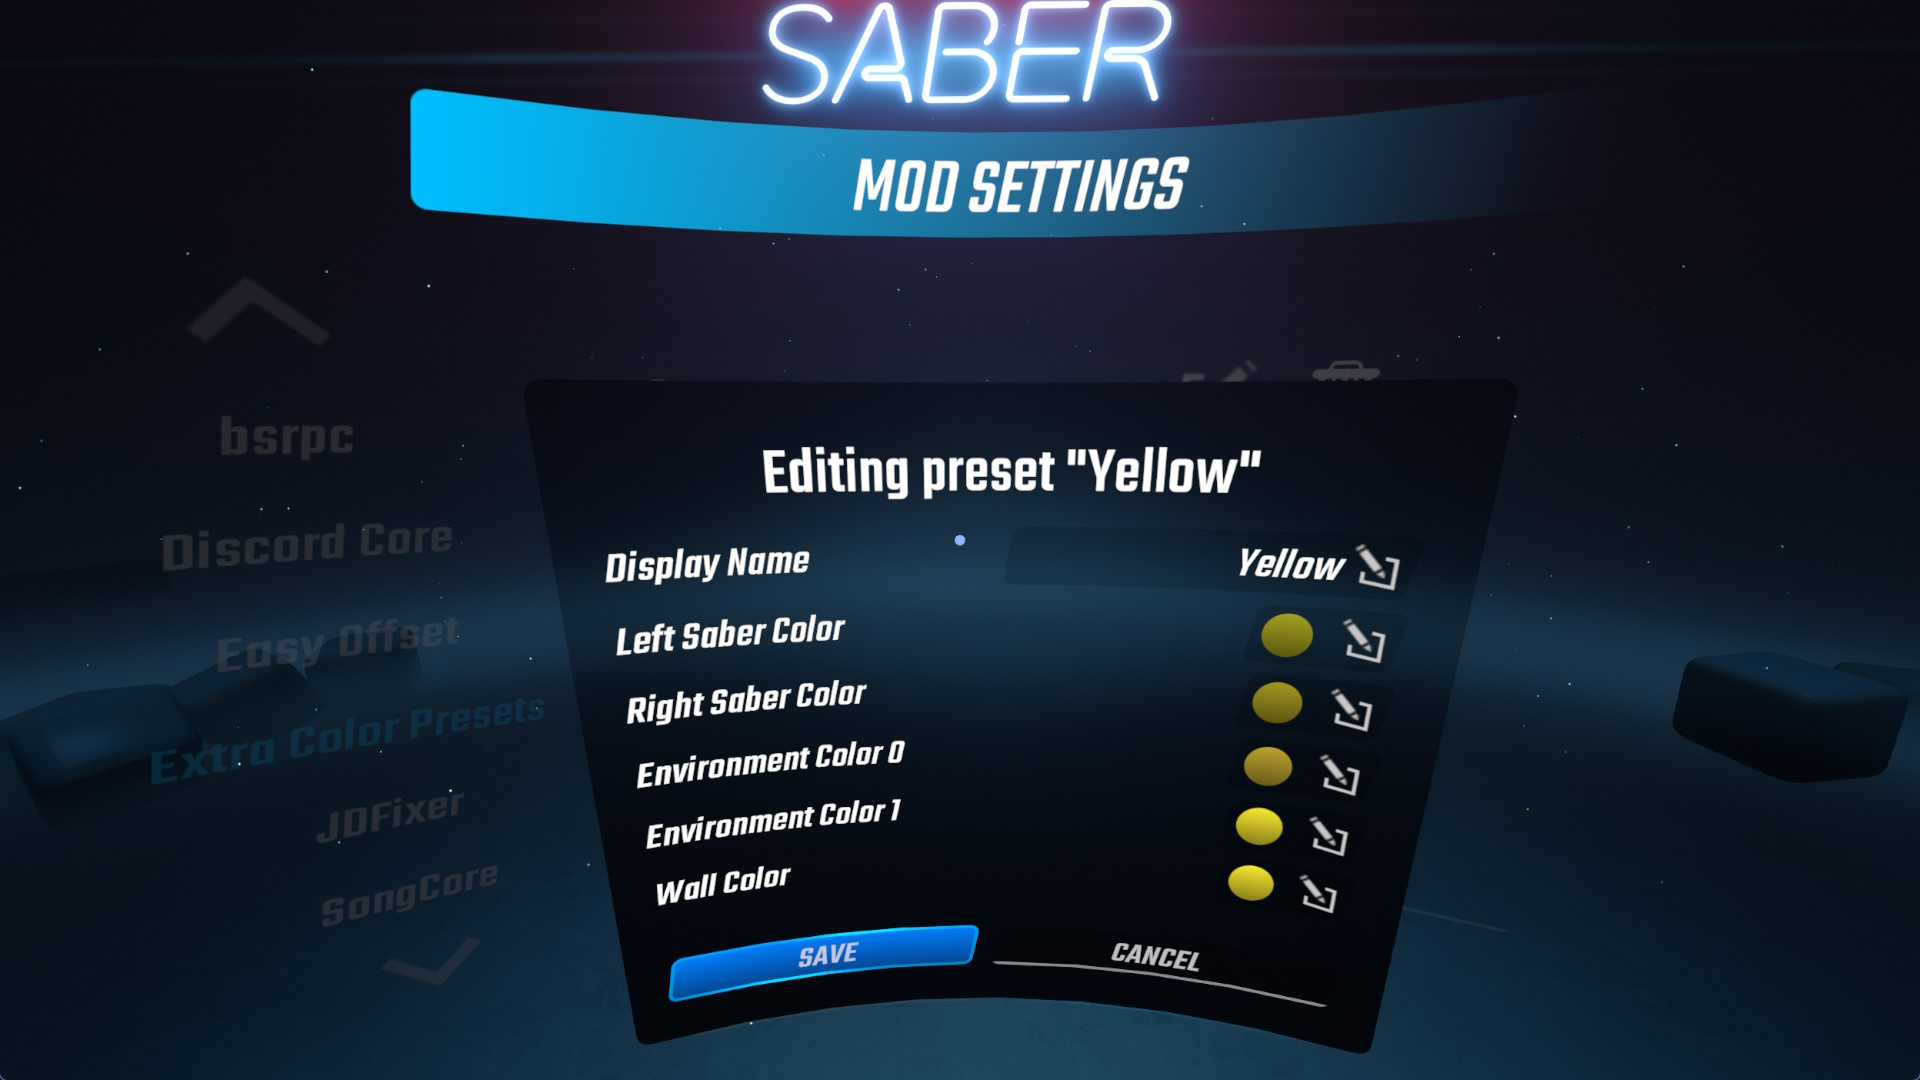
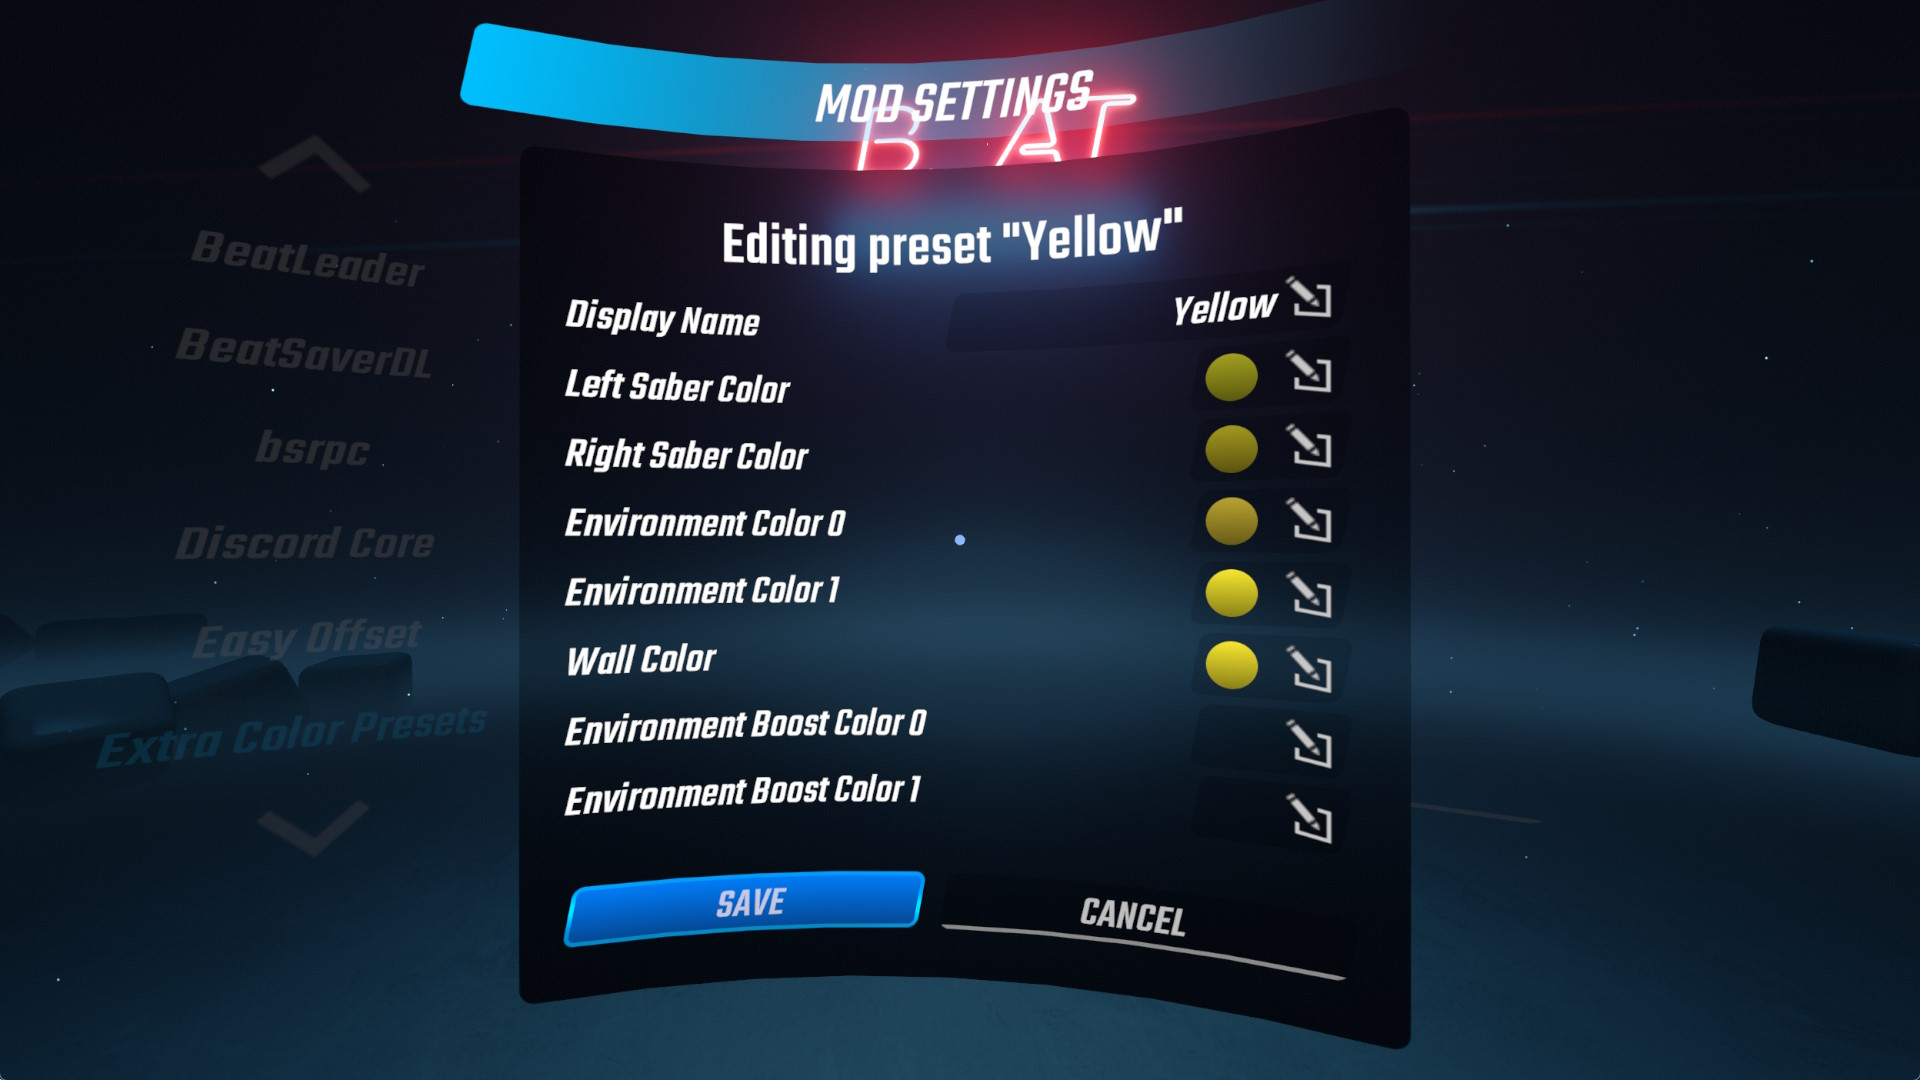
Add UI elements for environment boost colors

diff --git a/UI/PresetManagerSettings.cs b/UI/PresetManagerSettings.cs
@@ -57,6 +57,12 @@ namespace BSExtraColorPresets.UI
         [UIComponent("preset-settings-obstacles-color")]
         public ColorSetting presetSettingsObstaclesColor;
 
+        [UIComponent("preset-settings-boost-0-color")]
+        public ColorSetting presetSettingsBoost0Color;
+
+        [UIComponent("preset-settings-boost-1-color")]
+        public ColorSetting presetSettingsBoost1Color;
+
         [UIComponent("preset-delete-modal")]
         public ModalView presetDeleteModal;
 
@@ -99,6 +105,8 @@ namespace BSExtraColorPresets.UI
             presetSettingsEnv0Color.CurrentColor = modalEditingPreset.environmentColor0.ToUnityColor();
             presetSettingsEnv1Color.CurrentColor = modalEditingPreset.environmentColor1.ToUnityColor();
             presetSettingsObstaclesColor.CurrentColor = modalEditingPreset.obstaclesColor.ToUnityColor();
+            presetSettingsBoost0Color.CurrentColor = modalEditingPreset.environmentColor0Boost.ToUnityColor();
+            presetSettingsBoost1Color.CurrentColor = modalEditingPreset.environmentColor1Boost.ToUnityColor();
 
             presetSettingsModal.Show(true);
         }
@@ -122,6 +130,8 @@ namespace BSExtraColorPresets.UI
                 modalEditingPreset.environmentColor0 = new Util.HexColor(presetSettingsEnv0Color.CurrentColor);
                 modalEditingPreset.environmentColor1 = new Util.HexColor(presetSettingsEnv1Color.CurrentColor);
                 modalEditingPreset.obstaclesColor = new Util.HexColor(presetSettingsObstaclesColor.CurrentColor);
+                modalEditingPreset.environmentColor0Boost = new Util.HexColor(presetSettingsBoost0Color.CurrentColor);
+                modalEditingPreset.environmentColor1Boost = new Util.HexColor(presetSettingsBoost1Color.CurrentColor);
             }
             ClosePresetSettingsAction();
         }

diff --git a/Properties/AssemblyInfo.cs b/Properties/AssemblyInfo.cs
@@ -32,5 +32,5 @@ using System.Runtime.InteropServices;
 // You can specify all the values or you can default the Build and Revision Numbers 
 // by using the '*' as shown below:
 // [assembly: AssemblyVersion("1.0.*")]
-[assembly: AssemblyVersion("1.0.1")]
-[assembly: AssemblyFileVersion("1.0.1")]
+[assembly: AssemblyVersion("1.1.0")]
+[assembly: AssemblyFileVersion("1.1.0")]

diff --git a/README.md b/README.md
@@ -34,11 +34,7 @@ These features are planned in the future, do not make issues requesting them:
 
 ## Screenshots
 
-<img src="screenshots/mod-settings-list.jpg" alt="Mod settings screenshot showing the list of presets" width="300" height="169" />
-<img src="screenshots/mod-settings-edit.jpg" alt="Mod settings screenshot showing the edit interface for a single preset" width="300" height="169" />
-<img src="screenshots/gameplay-settings.jpg" alt="Gameplay settings screenshot showing the enable toggle and the currently selected preset" width="300" height="169" />
-<img src="screenshots/gameplay-settings-dropdown.jpg" alt="Gameplay settings screenshot showing the selector dropdown options" width="300" height="169" />
-<img src="screenshots/ingame.jpg" alt="In-game screenshot of the selected overrides" width="300" height="169" />
+<img src="screenshots/mod-settings-list.jpg" alt="Mod settings screenshot showing the list of presets" width="300" height="169" /> <img src="screenshots/mod-settings-edit.jpg" alt="Mod settings screenshot showing the edit interface for a single preset" width="300" height="169" /> <img src="screenshots/gameplay-settings.jpg" alt="Gameplay settings screenshot showing the enable toggle and the currently selected preset" width="300" height="169" /> <img src="screenshots/gameplay-settings-dropdown.jpg" alt="Gameplay settings screenshot showing the selector dropdown options" width="300" height="169" /> <img src="screenshots/ingame.jpg" alt="In-game screenshot of the selected overrides" width="300" height="169" />
 
 ## Credits
 
